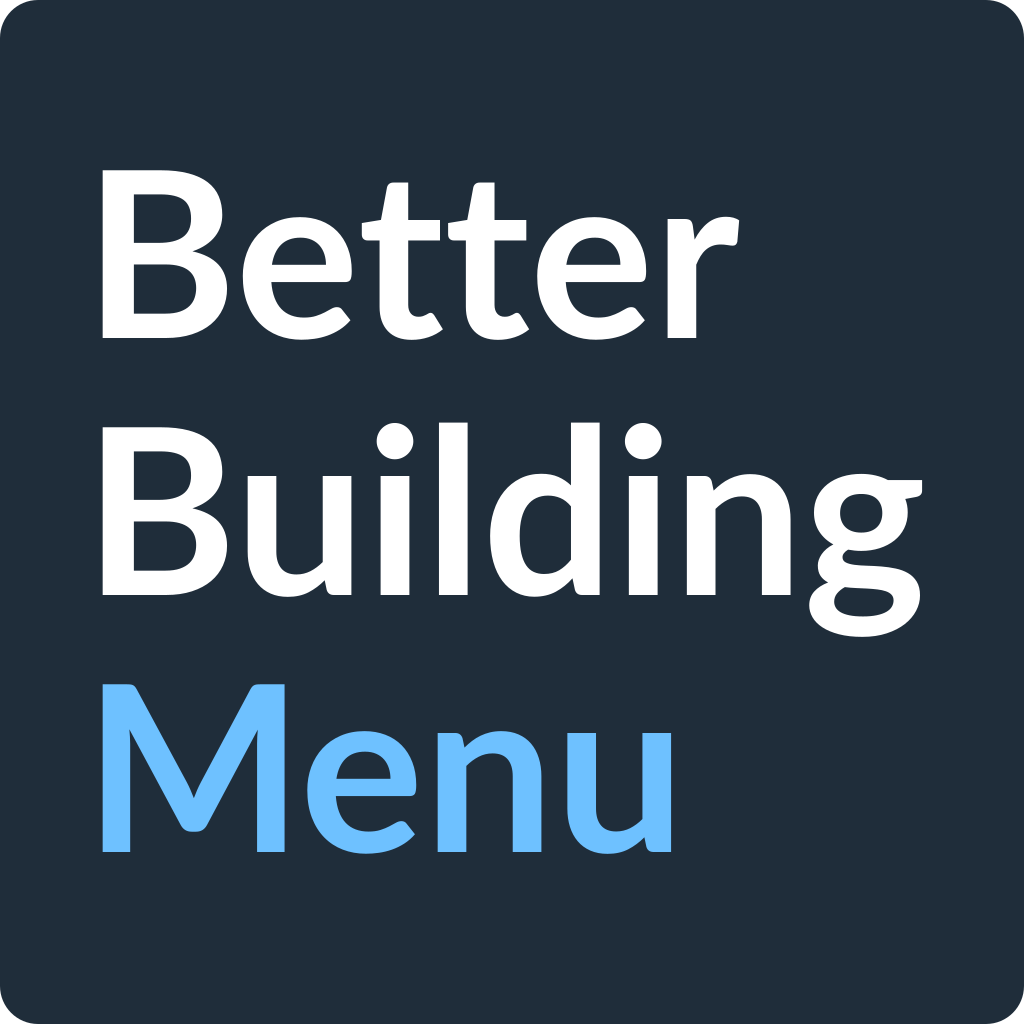
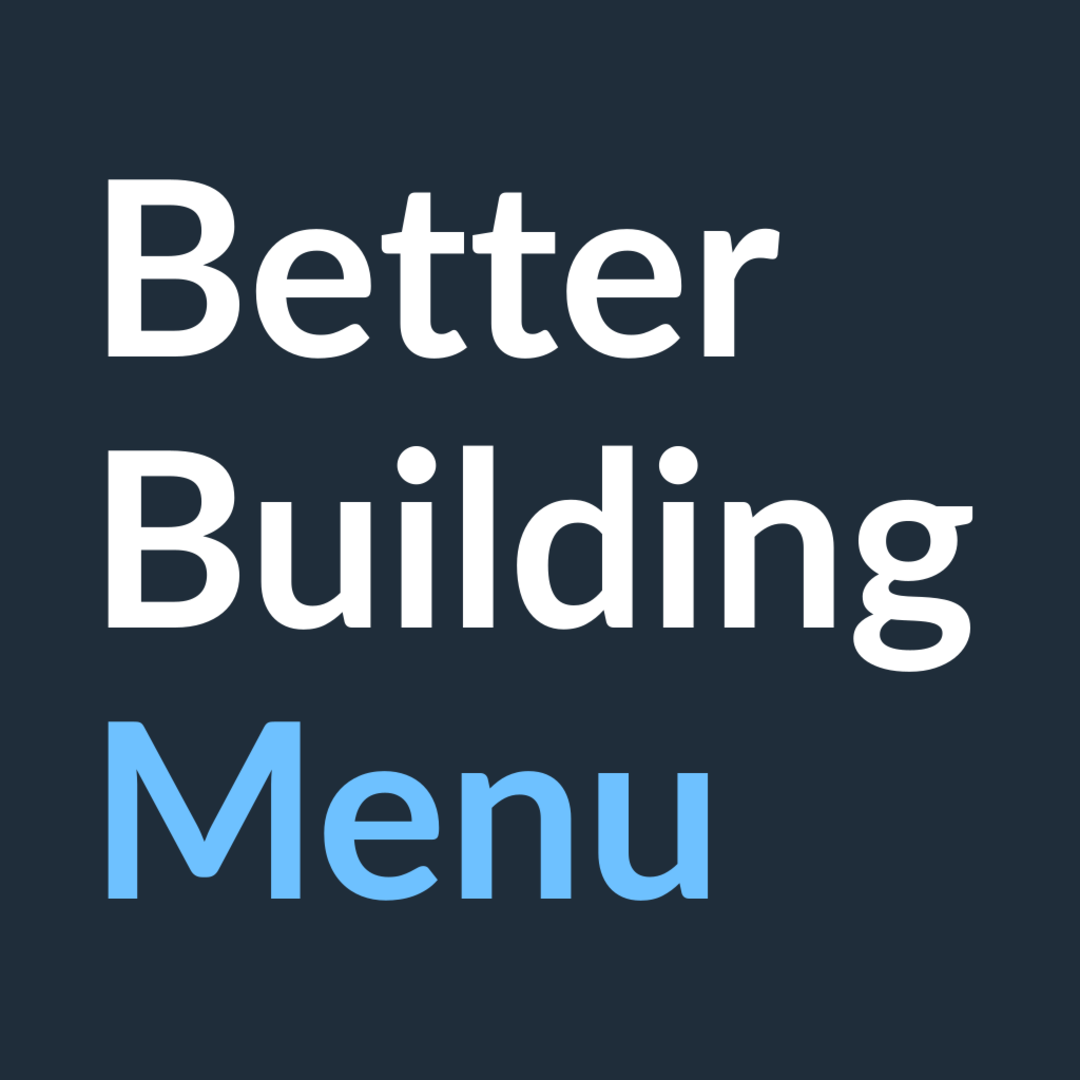
fix: square cover at 1080x1080; the site rounds its own cards
The 38px corners did not match the web card's rounding, so the mark is
a plain square again, rendered at the size the site's editor asks for.

Claude-Session: https://claude.ai/code/session_01DH4nVvAbxBMPua1tEQAXWY

diff --git a/docs/verification.md b/docs/verification.md
@@ -2072,7 +2072,7 @@ the City High School figures (cost, upkeep, capacity, parking, workers,
 jobs, evening shift, XP, upgrades, lot).
 
 **Store art.** `Properties/Screenshot_01..04.jpg` (1920x1080, JPEG q90) and
-`Properties/Thumbnail.png` (rendered from `Properties/Logo.svg`; the first upload used a crop of the Roads grid). Captured
+`Properties/Thumbnail.png` (1080x1080, rendered from `Properties/Logo.svg`; the first upload used a crop of the Roads grid). Captured
 with `spectacle -b -n -e -a` on the activated game window: the devtools
 `Page.captureScreenshot` returns only the UI layer over black, which is
 fine for probes and wrong for store images.
